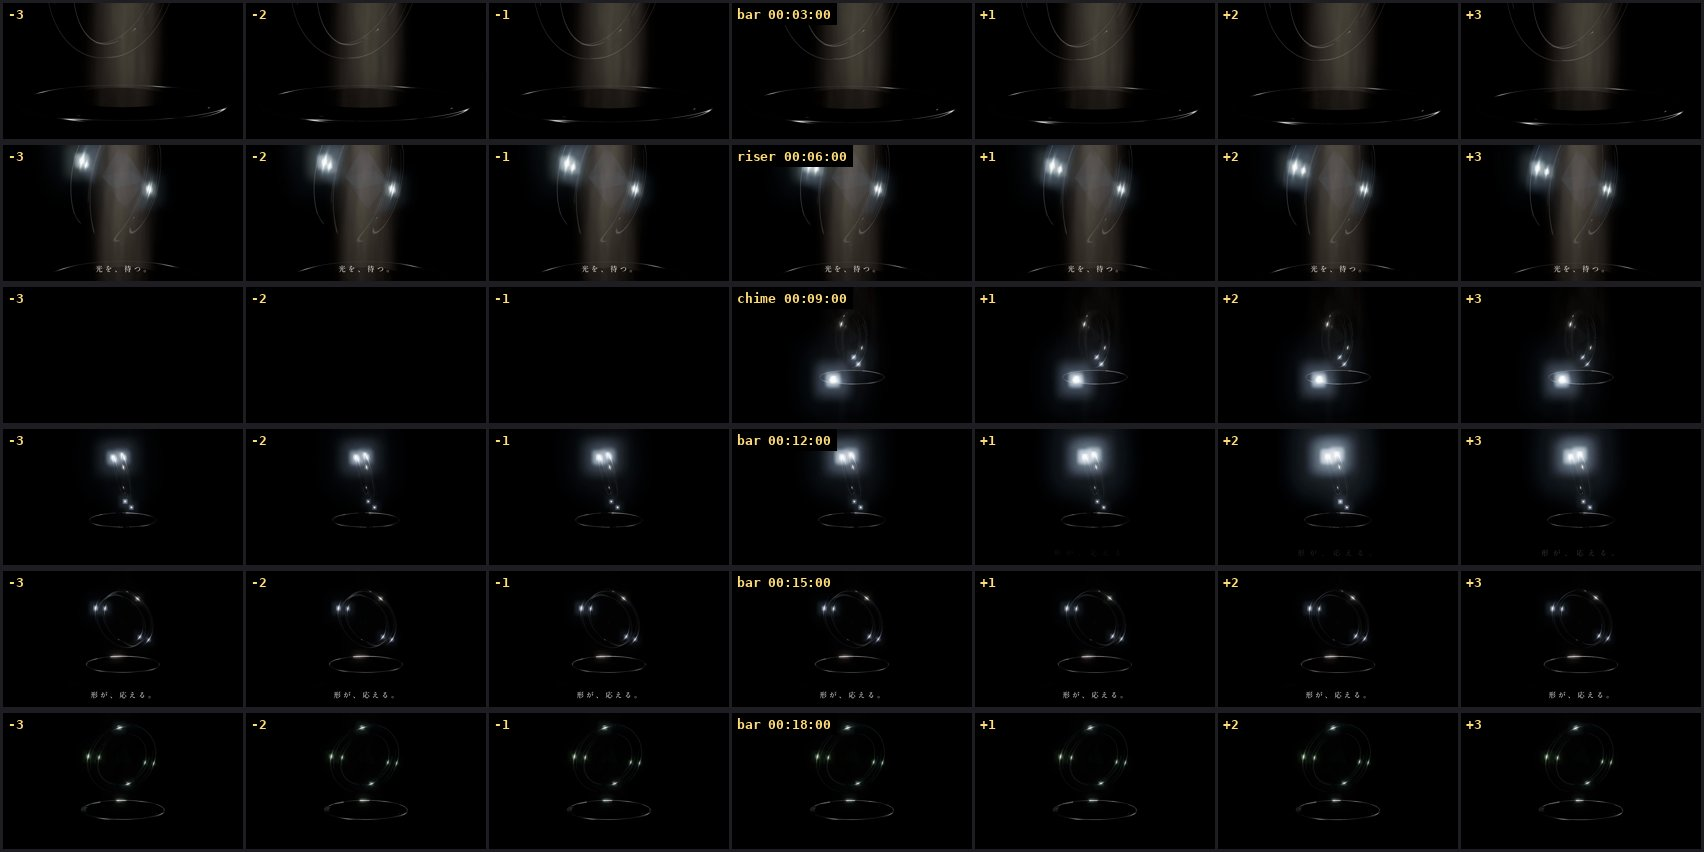
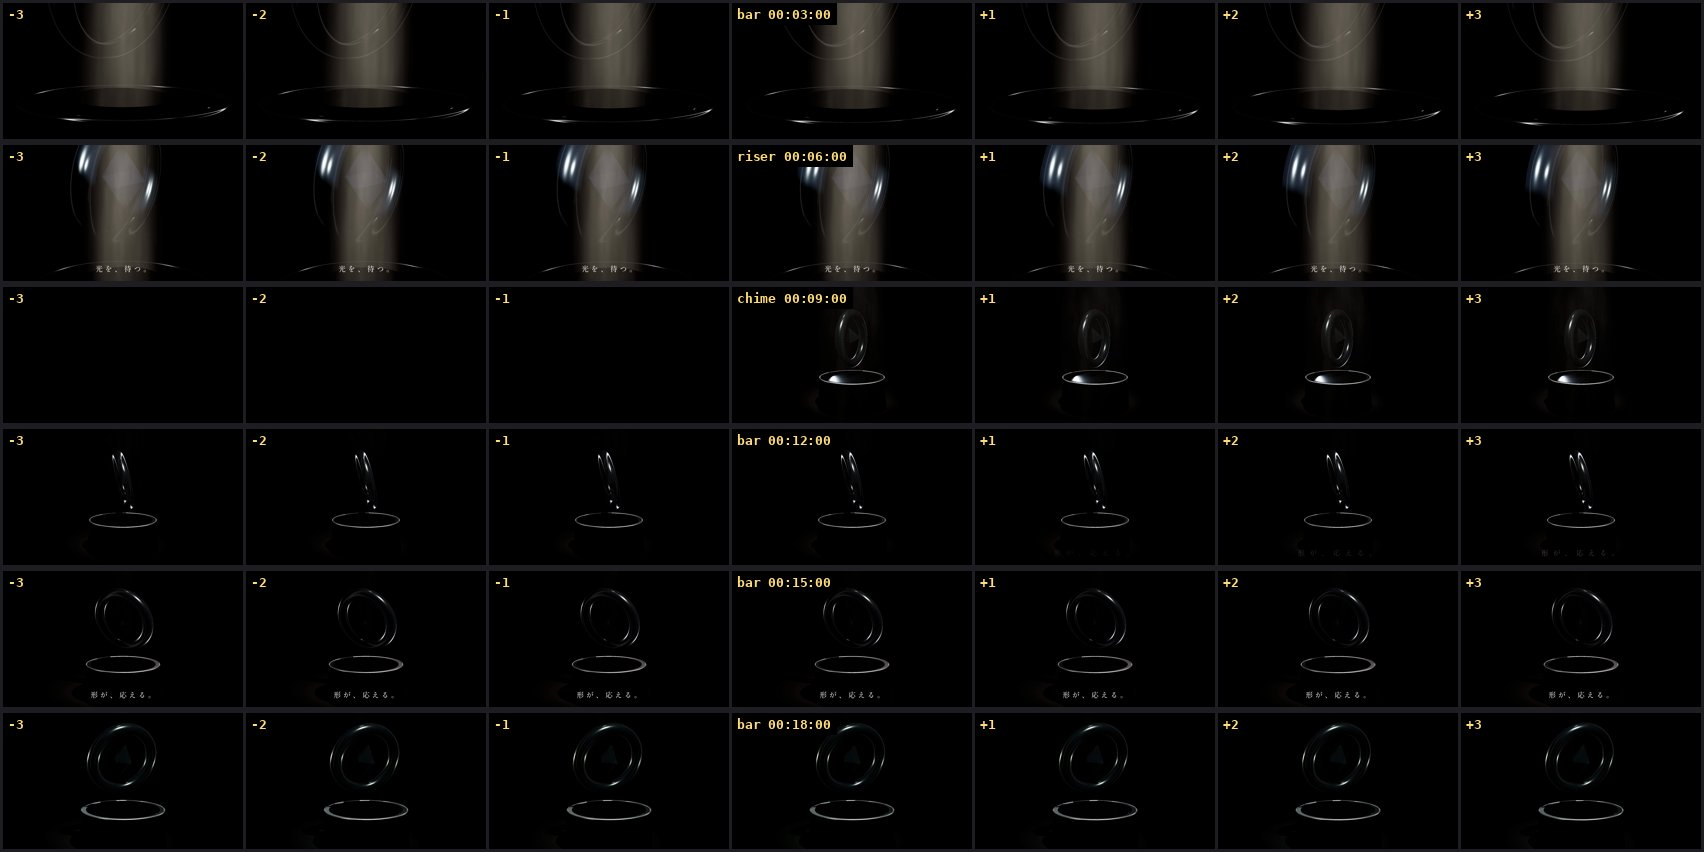
P019：奥にホリゾントと淡い壁の光を足し、ローキーの画面が黒味と判定されないようにする（霧も薄く）。書き出し直し中
Claude-Session: https://claude.ai/code/session_01BwmUGTgfPEj1Tu5124aDtq

diff --git a/studio/projects/P019-brandfilm/scene.html b/studio/projects/P019-brandfilm/scene.html
@@ -26,7 +26,7 @@ if(S.bloom){S.bloom.enabled=false;}   // ブルームは切る（ガラスの点
  for(const [x,z] of [[-4,1.5],[4.5,-1]]){const m=new THREE.Mesh(new THREE.BoxGeometry(.18,10,.18),sm);m.position.set(x,1,z);env.add(m);}
  const hal=new THREE.Mesh(new THREE.TorusGeometry(3,.05,8,96),new THREE.MeshBasicMaterial({color:new THREE.Color(.8,.86,1).multiplyScalar(2)}));hal.rotation.x=Math.PI/2;hal.position.y=6;env.add(hal);
  scene.environment=new THREE.PMREMGenerator(S.renderer).fromScene(env,0).texture;}
-scene.fog=new THREE.FogExp2(0x030304,.09);scene.background=new THREE.Color(0x030304);
+scene.fog=new THREE.FogExp2(0x030304,.035);scene.background=new THREE.Color(0x030304);
 C.stageFloor(scene,{material:new THREE.MeshPhysicalMaterial({color:0x060606,roughness:.3,clearcoat:.6,clearcoatRoughness:.25,envMapIntensity:.05})});
 const F={t1:'光を、待つ。',t2:'形が、応える。',brand:'澪硝',en:'MIOSHO — GLASS & METAL',disc:'※架空のブランドです'};
 for(const k in F)document.getElementById(k==='t1'?'t1':k==='t2'?'t2':k).textContent=F[k];
@@ -53,6 +53,9 @@ const rim=C.spot(scene,{pos:[-2.4,1.35,-2.8],target:[0,1.18,0],color:0xa9c4ff,in
 const top=C.spot(scene,{pos:[0,5.5,0],target:[0,0,0],color:0xfff4e4,intensity:0,angle:.2,penumbra:.6});
 const beamS=C.beam(scene,{from:[0,5.2,.3],to:[0,.52,0],radius:.3,color:0xfff1de,density:.28});
 const beamT=C.beam(scene,{from:[0,5.5,0],to:[0,0,0],radius:1.1,color:0xfff4e4,density:.2});
+// 奥の壁（ホリゾント）：薄く光を当て、暗い画面の中にもグラデーションの面を残す（真っ黒な画面＝黒味にしない）
+const cyc=new THREE.Mesh(new THREE.CylinderGeometry(5.2,5.2,9,96,1,true,Math.PI*.55,Math.PI*.9),new THREE.MeshStandardMaterial({color:0x2a2c31,roughness:.95,side:THREE.BackSide}));cyc.position.set(0,4,0);cyc.receiveShadow=true;scene.add(cyc);
+const wash=C.spot(scene,{pos:[0,3.2,4.5],target:[0,1.6,-6.5],color:0xb8c6dc,intensity:0,angle:.42,penumbra:1,shadow:false});
 const dust=C.dust(scene,{center:[0,1.6,0],radius:.8,height:3,count:70,seed:19});
 // 塵は丸く小さく（PointsMaterial のままだと、手前の粒が四角く大きく光る）
 {const c=document.createElement('canvas');c.width=c.height=64;const g=c.getContext('2d'),gr=g.createRadialGradient(32,32,0,32,32,32);gr.addColorStop(0,'rgba(255,255,255,1)');gr.addColorStop(.4,'rgba(255,255,255,.35)');gr.addColorStop(1,'rgba(255,255,255,0)');g.fillStyle=gr;g.fillRect(0,0,64,64);
@@ -82,6 +85,7 @@ window.renderAt=t=>{
   else if(t>=END){tp=lerp(0,520,ease.outCubic(prog(t,END,.12)));bt=lerp(0,.85,ease.outCubic(prog(t,END,.12)));r=lerp(0,60,prog(t,END+.5,1.5));}
   if(dark){k=r=tp=sl=sw=bs=bt=0;}
   scene.environmentIntensity=dark?0:t<B1?lerp(.25,.6,prog(t,0,2.6)):t>=END?lerp(0,.5,prog(t,END,.3)):.7;   // 暗転は本当の黒（映り込みも消す）
+  wash.intensity=dark?0:t<B1?lerp(120,260,prog(t,0,B1)):t>=END?lerp(0,260,prog(t,END,.5)):lerp(620,460,prog(t,HIT,B2-HIT));   /* 奥の壁の淡い光 */
   key.intensity=k;rim.intensity=r;top.intensity=tp;slit.intensity=sl;sweep.intensity=sw;beamS.set(t,bs);beamT.set(t,bt);dust.update(t,dark?0:t<B1?.3:t>=END?.32:.12);
   // カメラ：1幕は台の縁とガラスの寄り（ゆっくり回り込む）。2幕は中景で回り込み、終盤に寄る。3幕は正面で止まる（最後の2秒は静止）
   let P,L;
